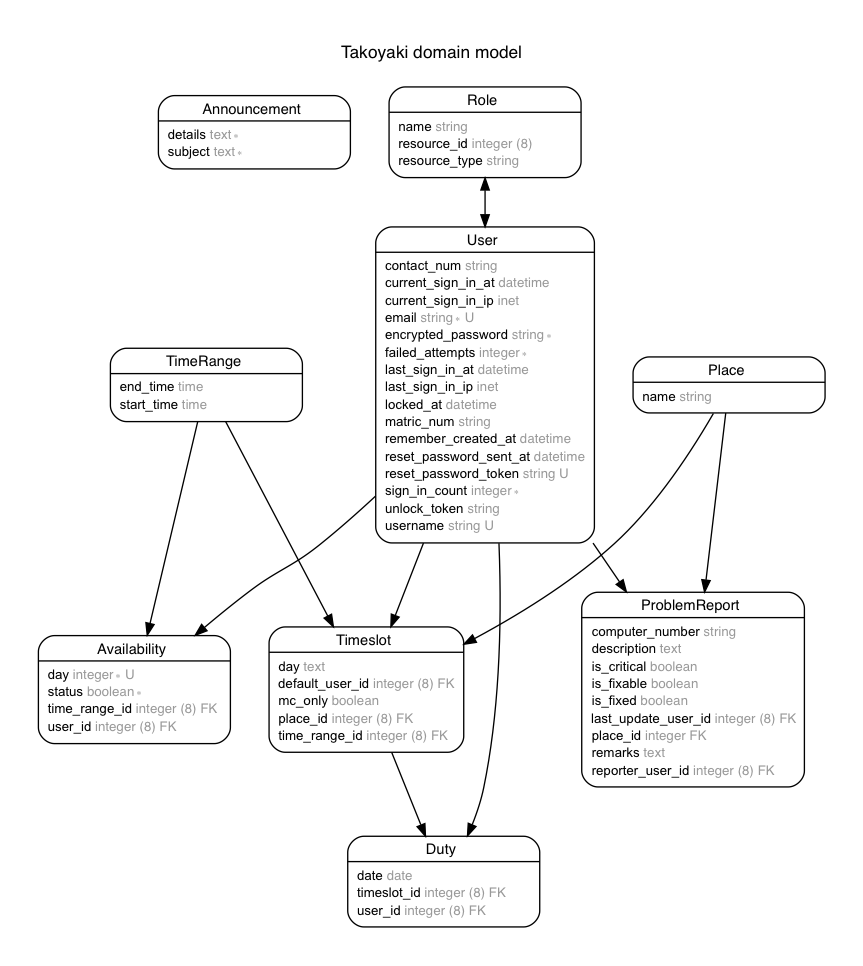
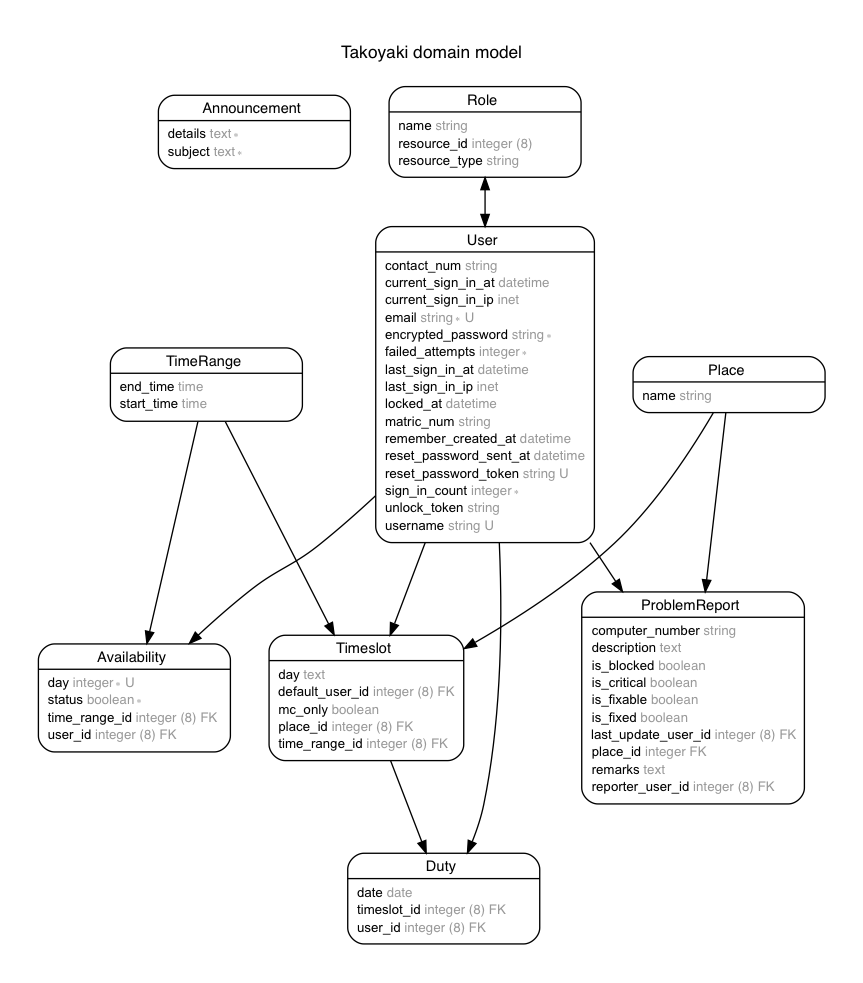
add simple list for problem-report

diff --git a/db/schema.rb b/db/schema.rb
@@ -10,7 +10,7 @@
 #
 # It's strongly recommended that you check this file into your version control system.
 
-ActiveRecord::Schema.define(version: 20180329171711) do
+ActiveRecord::Schema.define(version: 20180329194103) do
 
   # These are extensions that must be enabled in order to support this database
   enable_extension "plpgsql"
@@ -59,6 +59,7 @@ ActiveRecord::Schema.define(version: 20180329171711) do
     t.boolean  "is_fixable"
     t.text     "remarks"
     t.integer  "place_id"
+    t.boolean  "is_blocked"
   end
 
   create_table "roles", force: :cascade do |t|

diff --git a/app/models/problem_report.rb b/app/models/problem_report.rb
@@ -1,5 +1,4 @@
 # frozen_string_literal: true
-
 # == Schema Information
 #
 # Table name: problem_reports
@@ -16,6 +15,7 @@
 #  is_fixable          :boolean
 #  remarks             :text
 #  place_id            :integer
+#  is_blocked          :boolean
 #
 # Indexes
 #

diff --git a/spec/factories/problem_reports.rb b/spec/factories/problem_reports.rb
@@ -1,5 +1,4 @@
 # frozen_string_literal: true
-
 # == Schema Information
 #
 # Table name: problem_reports
@@ -16,6 +15,7 @@
 #  is_fixable          :boolean
 #  remarks             :text
 #  place_id            :integer
+#  is_blocked          :boolean
 #
 # Indexes
 #

diff --git a/spec/models/problem_report_spec.rb b/spec/models/problem_report_spec.rb
@@ -1,5 +1,4 @@
 # frozen_string_literal: true
-
 # == Schema Information
 #
 # Table name: problem_reports
@@ -16,6 +15,7 @@
 #  is_fixable          :boolean
 #  remarks             :text
 #  place_id            :integer
+#  is_blocked          :boolean
 #
 # Indexes
 #

diff --git a/db/migrate/20180329194103_add_attribute_is_blocked_to_problem_report.rb b/db/migrate/20180329194103_add_attribute_is_blocked_to_problem_report.rb
@@ -1,0 +1,5 @@
+class AddAttributeIsBlockedToProblemReport < ActiveRecord::Migration[5.1]
+  def change
+    add_column :problem_reports, :is_blocked, :boolean
+  end
+end
